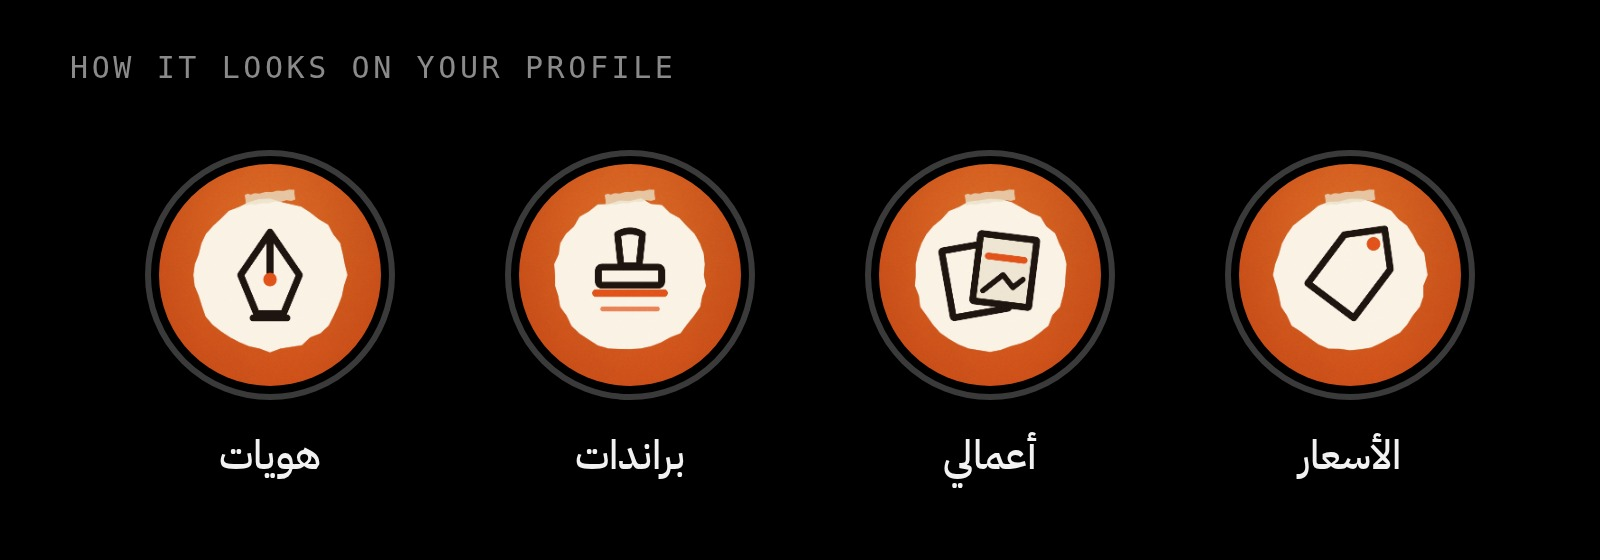
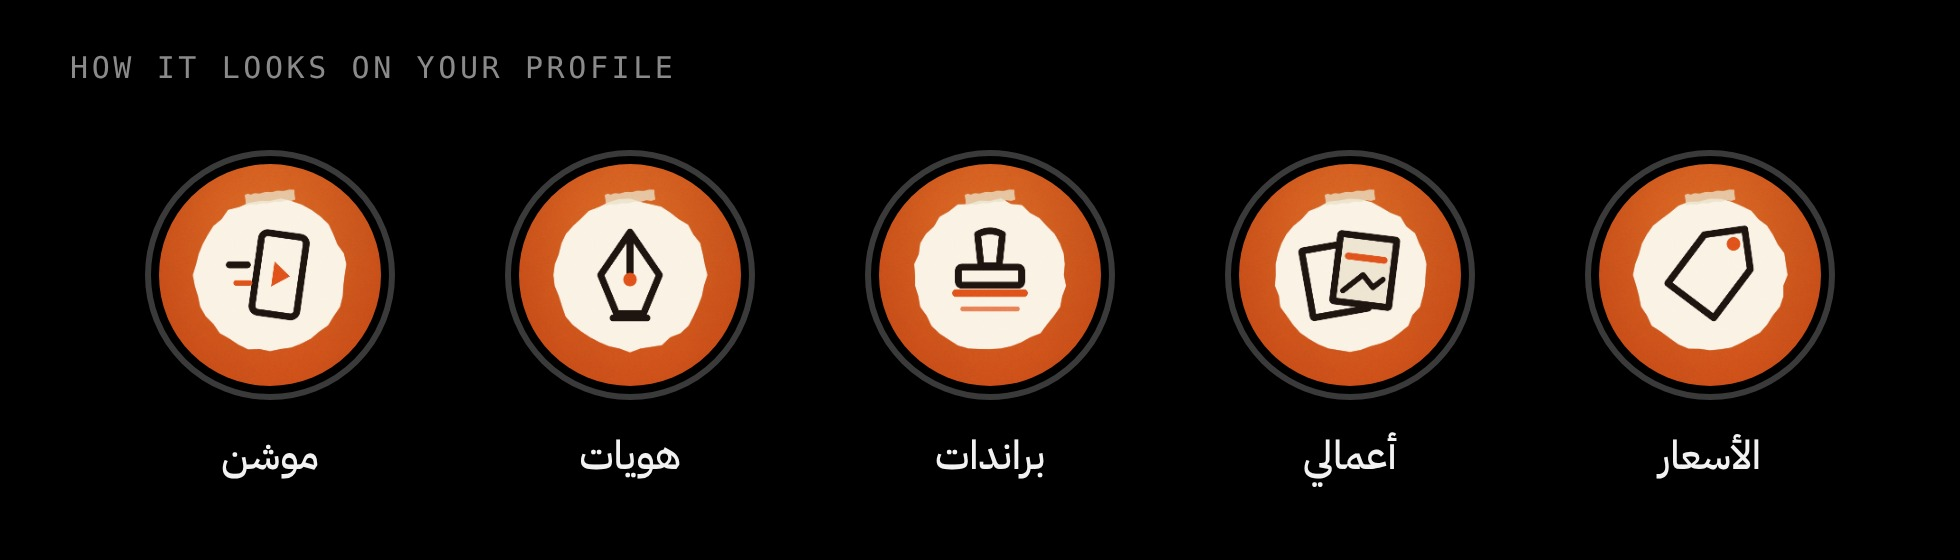
Highlights: add a cover for the motion highlight

diff --git a/marketing/ig-highlights/highlights.html b/marketing/ig-highlights/highlights.html
@@ -100,7 +100,7 @@ body { background:#222; display:flex; flex-wrap:wrap; gap:40px; padding:40px; wi
 .icon .redl { stroke:var(--orange) }
 
 /* the profile preview */
-#preview { width:1600px; height:560px; background:#000 }
+#preview { width:1960px; height:560px; background:#000 }
 #preview .ttl { position:absolute; left:70px; top:50px; font:500 30px 'IBM Plex Mono', monospace; letter-spacing:.12em; color:#8a8a8a; direction:ltr }
 #preview .hl { position:absolute; top:150px; width:300px; text-align:center }
 #preview .hl .c { width:250px; height:250px; margin:0 auto; border-radius:50%; border:6px solid #3a3a3a; padding:8px; background:#000 }
@@ -254,8 +254,10 @@ const ICON = {
   brands: `<path d="M195 70 Q 250 40 305 70 L 290 210 L 210 210 Z"/><rect x="110" y="215" width="280" height="80" rx="16"/><path d="M100 330 L400 330" class="redl" style="stroke-width:34"/><path d="M130 400 L370 400" class="redl" style="stroke-width:22; opacity:.7"/>`,
   // a pen-tool nib with its hole
   identity: `<path d="M250 60 L380 250 L310 420 L190 420 L120 250 Z"/><path d="M250 60 L250 250"/><circle class="red" cx="250" cy="270" r="30"/><path d="M175 440 L325 440"/>`,
+  // a tilted 9:16 reel frame with a play mark and two speed lines behind it
+  motion: `<g transform="rotate(8 280 250)"><rect x="190" y="70" width="200" height="355" rx="28"/><path class="red" d="M262 192 L338 248 L262 304 Z"/></g><path d="M70 205 L150 205"/><path class="redl" d="M100 285 L160 285" style="stroke-width:24"/>`,
 };
-[['c-prices', 'prices'], ['c-work', 'work'], ['c-brands', 'brands'], ['c-identity', 'identity']].forEach(([id, ic]) => {
+[['c-prices', 'prices'], ['c-work', 'work'], ['c-brands', 'brands'], ['c-identity', 'identity'], ['c-motion', 'motion']].forEach(([id, ic]) => {
   A.push(`<div class="art" id="${id}"><div class="bgc orange"></div>
     <div class="disc" style="--tear:${tear()}"></div>
     <svg class="icon" viewBox="0 0 500 500">${ICON[ic]}</svg>
@@ -265,7 +267,7 @@ const ICON = {
 
 // the profile row, from the rendered covers (render twice: this reads out/)
 A.push(`<div class="art" id="preview"><div class="ttl">HOW IT LOOKS ON YOUR PROFILE</div>
-  ${[['c-prices', 'الأسعار'], ['c-work', 'أعمالي'], ['c-brands', 'براندات'], ['c-identity', 'هويات']].map(([id, n], k) =>
+  ${[['c-prices', 'الأسعار'], ['c-work', 'أعمالي'], ['c-brands', 'براندات'], ['c-identity', 'هويات'], ['c-motion', 'موشن']].map(([id, n], k) =>
     `<div class="hl" style="right:${100 + k * 360}px"><div class="c"><div style="background-image:url(out/highlights-${id}.jpg)"></div></div><span>${n}</span></div>`).join('')}
 </div>`);
 

diff --git a/marketing/ig-highlights/README.md b/marketing/ig-highlights/README.md
@@ -25,7 +25,8 @@ Key content sits between y 250 and 1680, clear of the story header and the reply
 ## Covers
 
 `c-prices` (a price tag), `c-work` (two prints), `c-brands` (a rubber stamp), `c-identity` (a pen nib, for the existing
-«هويات» highlight so the whole row matches): an ink icon on a torn cream disc on brand orange. Instagram crops
+«هويات» highlight so the whole row matches), `c-motion` (a tilted reel frame with a play mark, for the «موشن» highlight
+of motion videos, added 26 Oct): an ink icon on a torn cream disc on brand orange. Instagram crops
 the centre circle. `preview` shows the row as it looks on the profile.
 
 ## Putting them up
